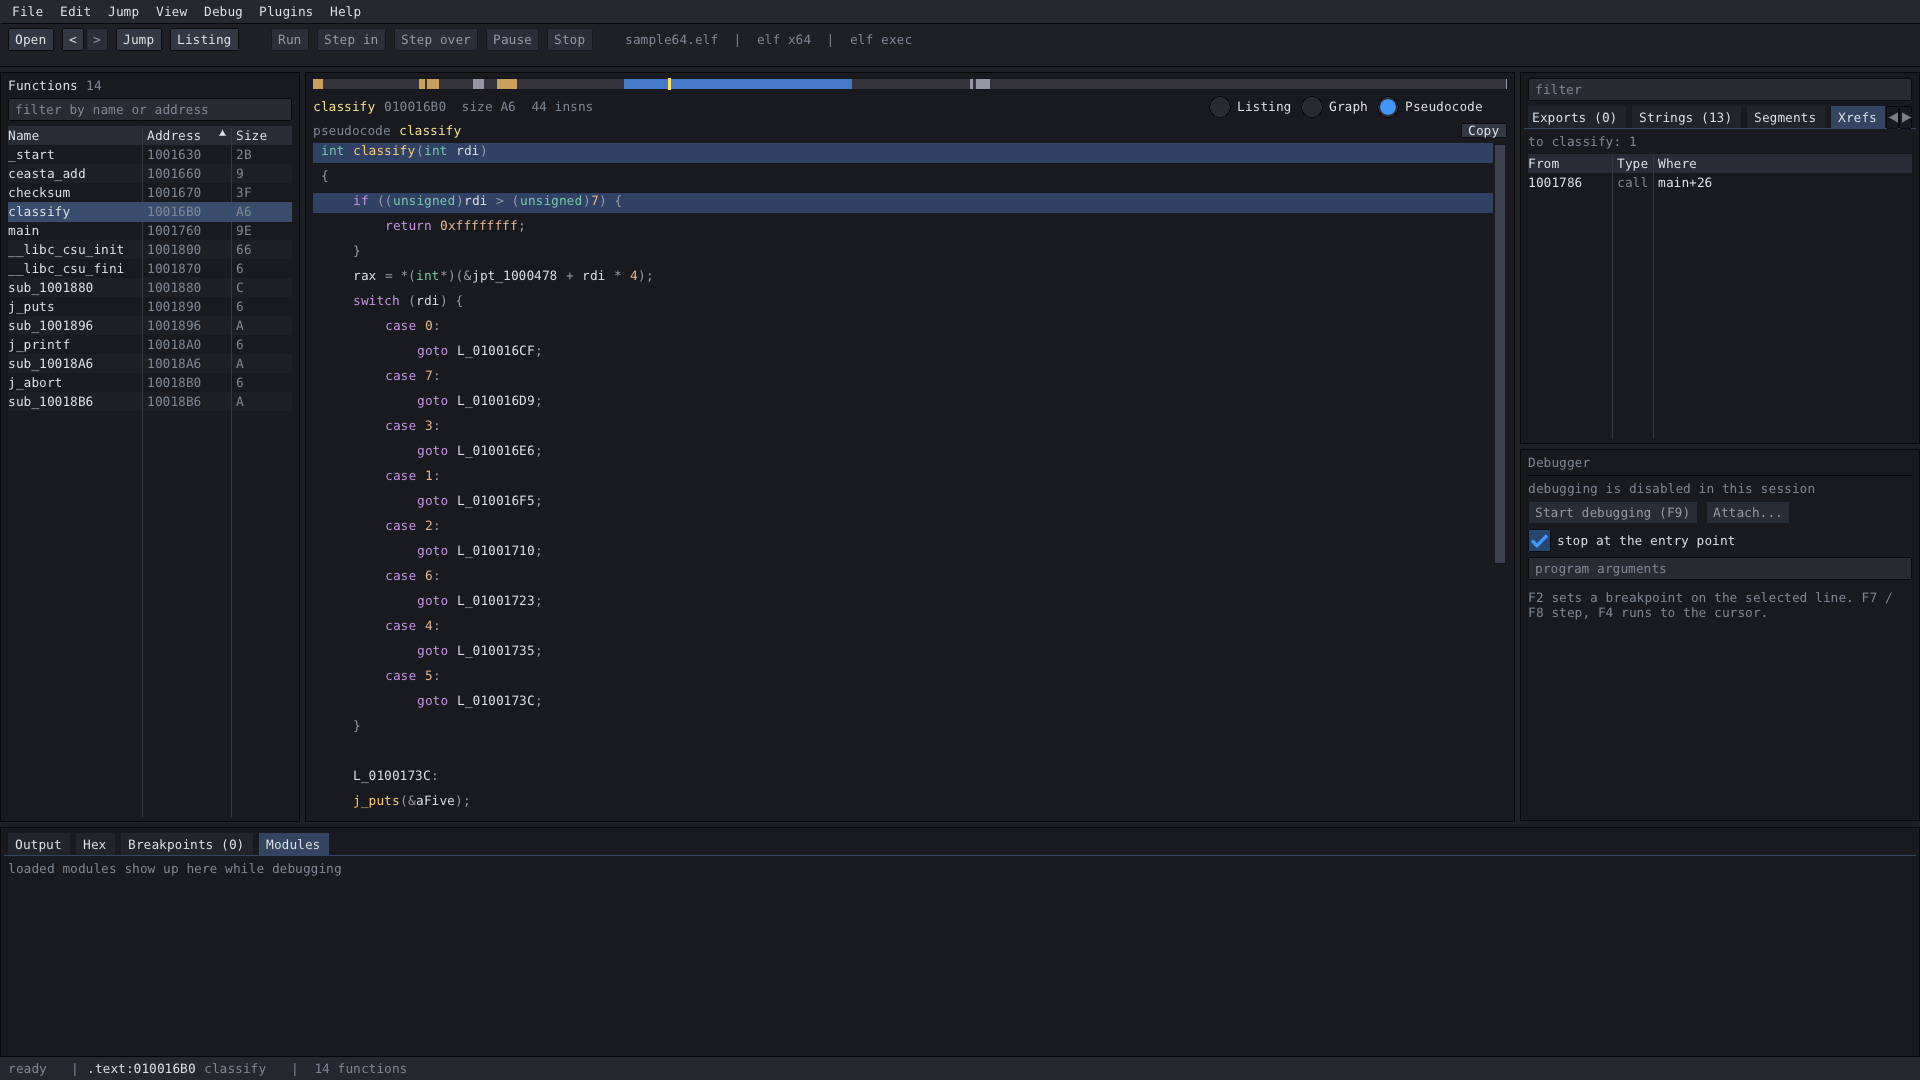
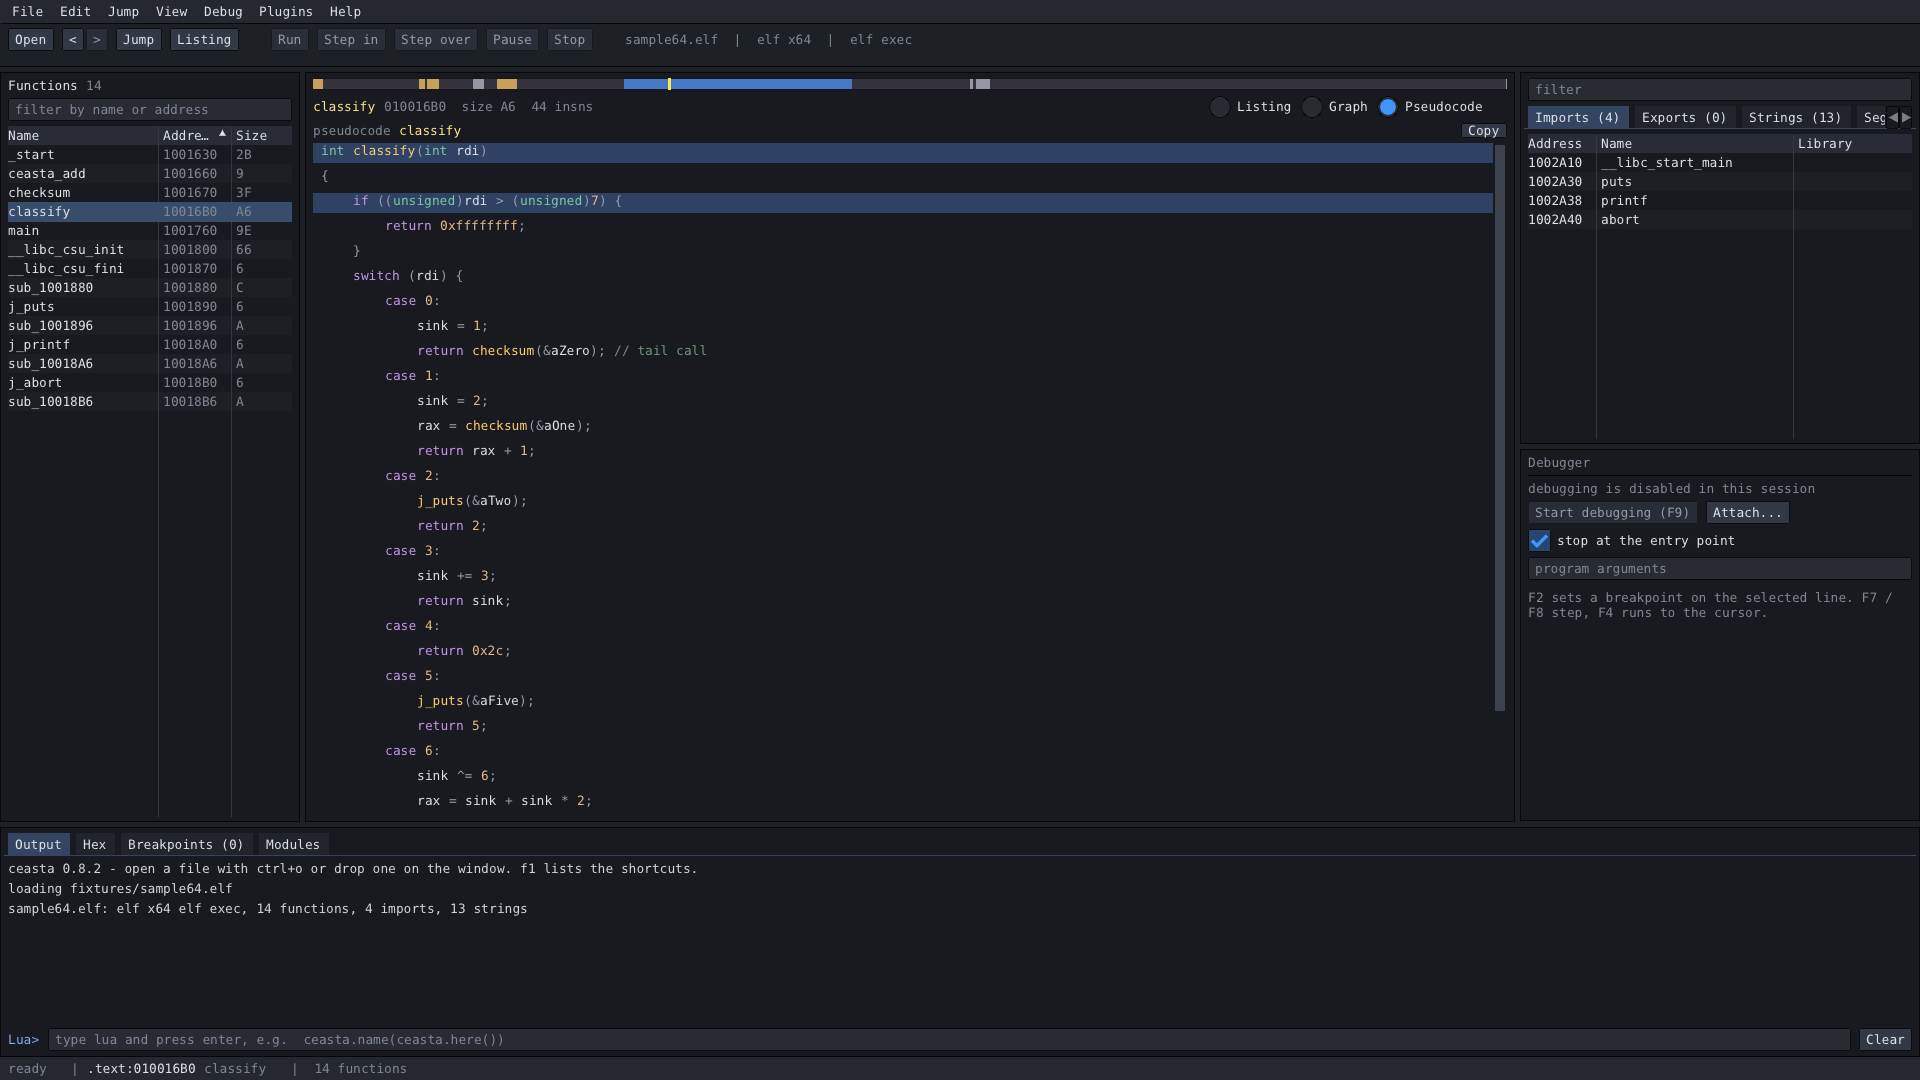
decompiler: tail calls, labels for every goto, do-while back edges
- a jmp into another function prints as "return f(...); // tail call"
  with the callee's arguments; tail jumps read their arguments for
  liveness like calls do (an argument set in an earlier block was
  dropped when the callee's arity was unknown)
- the structurer runs until the set of goto labels is stable, so a goto
  back to code already written has its label; loop headers print their
  label before the loop
- a jump back to a do-while's header is a goto (continue would test the
  condition first); a continue that ends a while body is dropped
- switch cases repeat a small return / tail call instead of a goto
- docs/pseudo.png re-rendered: the switch shows its case bodies

Claude-Session: https://claude.ai/code/session_01ApKR2edELfYwLBoELZiHxz

diff --git a/src/core/decompiler.cpp b/src/core/decompiler.cpp
@@ -474,7 +474,8 @@ struct insn_rw {
     uint32_t rd = 0, wr = 0;
     bool flags_rd = false, flags_wr = false;
     bool call = false, ret = false;
-    uint64_t target = 0; // direct call target
+    bool tail = false;   // a jump out of the function (a tail call)
+    uint64_t target = 0; // direct call / tail call target
 };
 
 // ------------------------------------------------------------------ lifter
@@ -884,7 +885,20 @@ bool lifter::run(uint64_t func_start, std::vector<block_ir>& out, std::vector<st
                     }
                     if (r.wr & 1u)
                         call_sets_rax = true;
+                } else if (insn->id == X86_INS_JMP && x.op_count >= 1 && x.operands[0].type == X86_OP_IMM &&
+                           !block_of.count((uint64_t)x.operands[0].imm)) {
+                    // a jump out of the function: a tail call, the callee's result is ours
+                    r.tail = true;
+                    r.target = (uint64_t)x.operands[0].imm;
+                    const callee_info& ci = callee_of(r.target);
+                    for (int i = 0; i < ci.arity && i < (int)arg_bits.size(); i++)
+                        r.rd |= arg_bits[i];
+                    if (ci.clobbers & 1u)
+                        call_sets_rax = true;
                 } else {
+                    if (insn->id == X86_INS_JMP && x.op_count >= 1 && x.operands[0].type == X86_OP_MEM &&
+                        !db_.an.tables.count(a))
+                        r.tail = true; // jmp [ptr]: a tail call through a pointer
                     if (r.wr & 1u)
                         returns_value = true; // rax written somewhere -> assume it returns a value
                     if (!cs_insn_group(cs_, insn, X86_GRP_FPU)) {
@@ -967,12 +981,13 @@ bool lifter::run(uint64_t func_start, std::vector<block_ir>& out, std::vector<st
         std::vector<uint32_t> set_out(nb, 0);
         auto walk = [&](size_t bi, uint32_t s, bool apply) {
             for (insn_rw& r : rws[bi]) {
-                if (r.call) {
+                if (r.call || r.tail) {
                     // a known callee's arguments are already counted
                     bool known = r.target && callee_of(r.target).arity >= 0;
                     for (size_t i = 0; apply && !known && i < arg_bits.size() && (s & arg_bits[i]); i++)
                         r.rd |= arg_bits[i];
-                    s &= ~r.wr;
+                    if (r.call)
+                        s &= ~r.wr;
                 } else {
                     s |= r.wr & arg_mask;
                 }
@@ -1596,7 +1611,24 @@ bool lifter::run(uint64_t func_start, std::vector<block_ir>& out, std::vector<st
                     if (returns_value)
                         ir.cond = reg_read(cur, "rax");
                 } else if (id == X86_INS_JMP) {
-                    if (x.op_count >= 1 && x.operands[0].type == X86_OP_IMM) {
+                    if (x.op_count >= 1 && x.operands[0].type == X86_OP_IMM &&
+                        !block_of.count((uint64_t)x.operands[0].imm)) {
+                        // a jump out of the function: a tail call
+                        uint64_t t = (uint64_t)x.operands[0].imm;
+                        auto ce = std::make_shared<expr>();
+                        ce->kind = expr::k::call;
+                        std::string nm = db_.name_at(t);
+                        ce->text = nm.empty() ? db_.location(t) : nm;
+                        ce->ref = t;
+                        int known = callee_of(t).arity;
+                        for (size_t i = 0; i < arg_bits.size(); i++) {
+                            if (known >= 0 ? (int)i >= known : !(argset & arg_bits[i]))
+                                break;
+                            ce->kids.push_back(reg_read(cur, fam_name(low_bit(arg_bits[i]))));
+                        }
+                        ir.term = term_kind::indirect;
+                        ir.cond = ce;
+                    } else if (x.op_count >= 1 && x.operands[0].type == X86_OP_IMM) {
                         ir.term = term_kind::jump;
                         ir.fall = (uint64_t)x.operands[0].imm;
                     } else {
@@ -1921,7 +1953,9 @@ void structurer::emit_block_stmts(int b, int indent)
 // a small block that returns is repeated where it's needed again, instead of a goto
 bool structurer::repeat_return(int b, int indent, int stop, std::vector<loopctx>& loops)
 {
-    if (b < 0 || blocks[b].term != term_kind::ret || blocks[b].stmts.size() > 2)
+    const block_ir& ib = b < 0 ? blocks[0] : blocks[b];
+    bool tail = ib.term == term_kind::indirect && ib.cond && ib.cond->kind == expr::k::call;
+    if (b < 0 || (ib.term != term_kind::ret && !tail) || ib.stmts.size() > 2)
         return false;
     emit_block_stmts(b, indent);
     emit_term(b, indent, stop, loops);
@@ -1938,7 +1972,13 @@ void structurer::go(int target, int indent, int stop, std::vector<loopctx>& loop
             return;
         }
         if (target == loops.back().header) {
-            line(indent, "continue;");
+            if (loops.back().dowhile) {
+                // continue would test the do-while condition first; this jump doesn't
+                want_label.insert(target);
+                line(indent, "goto " + label_name(target) + ";");
+            } else {
+                line(indent, "continue;");
+            }
             return;
         }
     }
@@ -2072,7 +2112,7 @@ void structurer::emit_term(int b, int indent, int stop, std::vector<loopctx>& lo
                                 lt.compare(0, 5, "goto ") == 0;
                     if (!left)
                         line(indent + 2, "break;");
-                } else {
+                } else if (!(emitted[tb] && repeat_return(tb, indent + 2, merge, loops))) {
                     want_label.insert(tb);
                     line(indent + 2, "goto " + label_name(tb) + ";");
                 }
@@ -2161,6 +2201,8 @@ void structurer::emit(int b, int indent, int stop, std::vector<loopctx>& loops)
         }
 
         emitted[b] = 1;
+        if (want_label.count(b))
+            line(indent, label_name(b) + ":", hb.start);
         loopctx lc;
         lc.header = b;
         lc.follow = loop_follow[b];
@@ -2284,28 +2326,47 @@ void structurer::run(int entry)
             ipdom[i] = (pd[i] == vexit) ? -1 : pd[i];
     }
     find_loops();
-    emitted.assign(blocks.size(), 0);
 
-    std::vector<loopctx> loops;
-    emit(entry, 0, -1, loops);
-    // any block the walk missed (irreducible / unreachable) - append with a label
-    for (int b : rpo)
-        if (!emitted[b]) {
-            want_label.insert(b);
-            line(0, "");
-            emit(b, 0, -1, loops);
-        }
+    // a goto can go back to a block that is already written: a first pass finds every
+    // label that's needed, the next one writes them
+    std::set<int> labels;
+    for (int pass = 0; pass < 4; pass++) {
+        out.clear();
+        emitted.assign(blocks.size(), 0);
+        want_label = labels;
+        std::vector<loopctx> loops;
+        emit(entry, 0, -1, loops);
+        // any block the walk missed (irreducible / unreachable) - append with a label
+        for (int b : rpo)
+            if (!emitted[b]) {
+                want_label.insert(b);
+                line(0, "");
+                emit(b, 0, -1, loops);
+            }
+        if (want_label == labels)
+            break;
+        labels = want_label;
+    }
 }
 
 // tidy up the emitted lines: drop empty then-branches and empty blocks
 std::vector<decomp_line> cleanup(const std::vector<decomp_line>& in)
 {
     std::vector<decomp_line> v;
+    // which line opened the block at each indent, to tell loop bodies from if bodies
+    std::vector<std::string> opener;
     auto is_if = [](const std::string& s) {
         return s.size() > 7 && s.compare(0, 4, "if (") == 0 && s.compare(s.size() - 3, 3, ") {") == 0;
     };
     for (size_t i = 0; i < in.size(); i++) {
         const decomp_line& l = in[i];
+        if (opener.size() <= (size_t)l.indent)
+            opener.resize((size_t)l.indent + 1);
+        if (!l.text.empty() && l.text.back() == '{')
+            opener[(size_t)l.indent] = l.text;
+        if (l.text == "continue;" && l.indent > 0 && i + 1 < in.size() && in[i + 1].indent == l.indent - 1 &&
+            in[i + 1].text == "}" && opener[(size_t)l.indent - 1].compare(0, 6, "while ") == 0)
+            continue;
         if (l.text == "} else {" && i + 1 < in.size() && in[i + 1].indent == l.indent && in[i + 1].text == "}") {
             // empty else: just close the if
             decomp_line nl = l;

diff --git a/docs/CHANGELOG.md b/docs/CHANGELOG.md
@@ -7,8 +7,10 @@
   - nothing reads a register after it changed any more, when an assignment has to be written out early
   - calls get their real arguments: functions in the binary are checked for what they read, and values a compiler keeps in registers across a call to a small function survive it
   - setcc, cmov, div / idiv, mul, rol / ror, bswap, popcnt are lifted (`rax == 5`, `a ? b : c`, `/` and `%`, `__rol(x, 5)`); anything else shows as `__asm { ... }` instead of vanishing
-  - loops with more than one exit, top-tested loops that compute before their test, and tail calls through pointers come out right
+  - loops with more than one exit, top-tested loops that compute before their test, and tail calls (a jump into another function, or through a pointer) come out right
   - switch cases are written inside the switch, and functions whose result no caller reads are `void`
+  - every goto has its label - a jump back to code that was already written had none
+- the pseudocode screenshot shows the new switch output
 - the linux download's release note mentions the terminal debugger
 
 ## v0.8.1 - 2026-09-24
